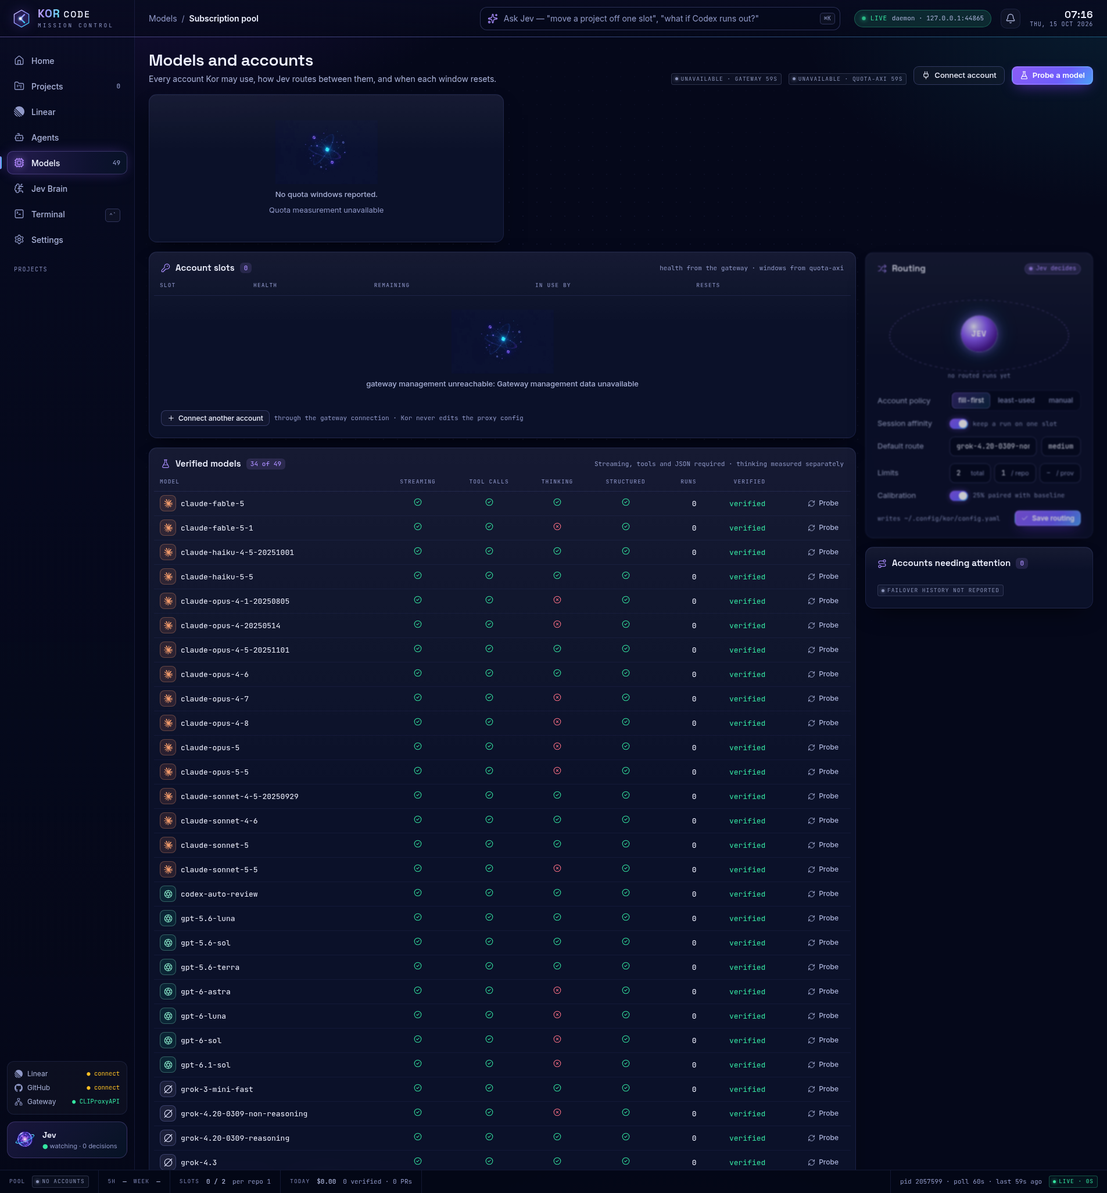
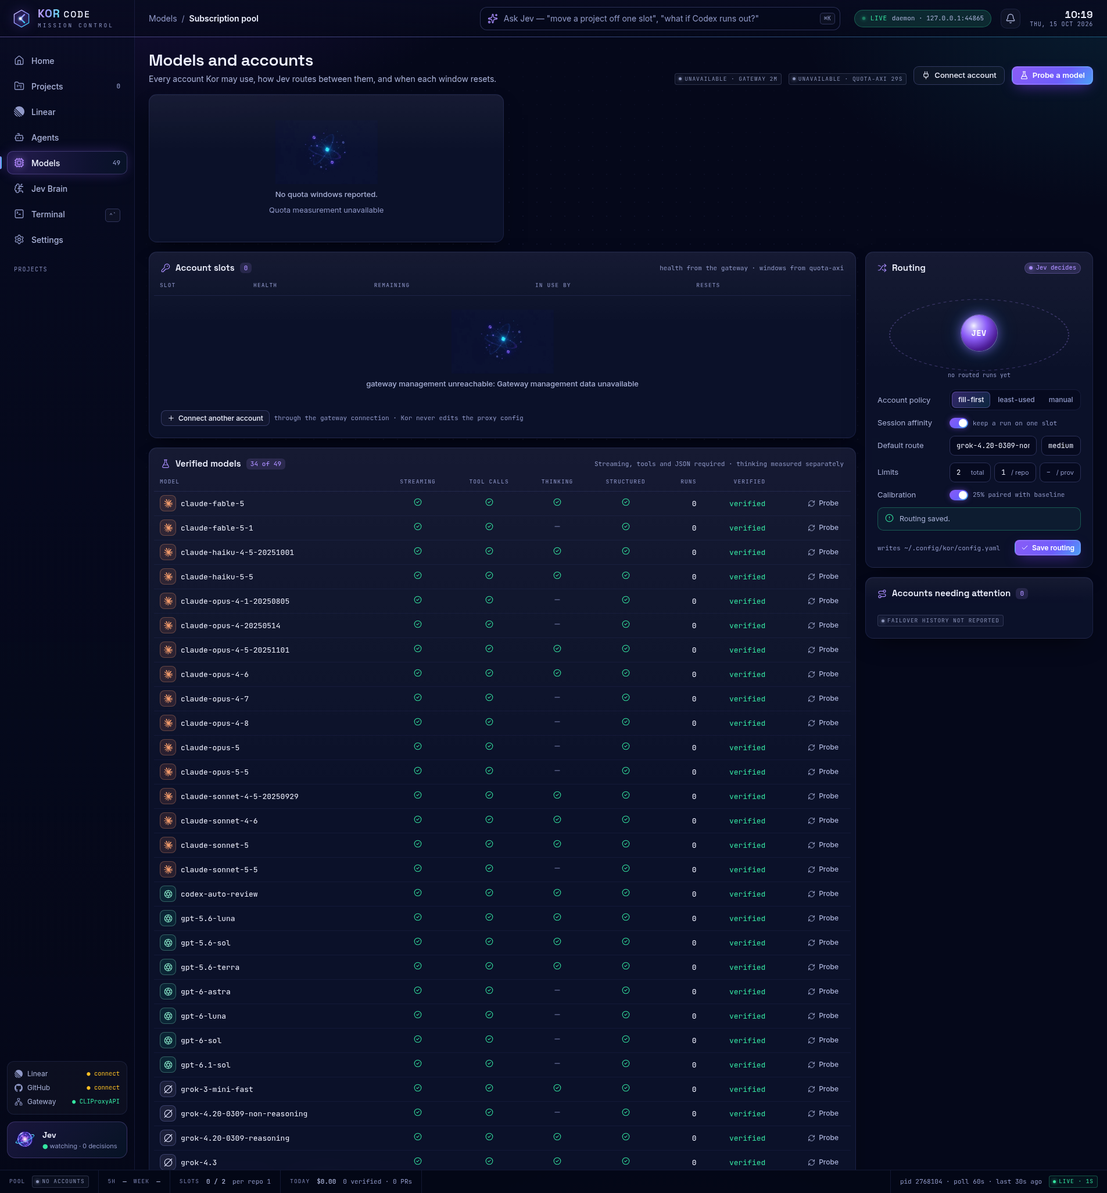
fix(models): retain offline candidates and unknown thinking evidence

Changed region(s): [[0.7743, 0.2494, 0.9911, 0.53], [0.8052, 0.2182, 0.8362, 0.2494]]

diff --git a/packages/cli/src/models.ts b/packages/cli/src/models.ts
@@ -6,7 +6,7 @@ import { join } from "node:path";
 import { fileURLToPath } from "node:url";
 import { z } from "zod";
 import { loadGatewayEnvironment } from "@kor-code/config";
-import { GatewayAdapter, MODEL_CAPABILITIES, availableVerifiedModels, isTextModel, modelFamily, modelProvider, readModelRegistry, writeModelRegistry, type ModelProbeResult } from "@kor-code/gateway-adapter";
+import { GatewayAdapter, MODEL_CAPABILITIES, loadAvailableVerifiedModels, isTextModel, modelFamily, modelProvider, readModelRegistry, writeModelRegistry, type ModelProbeResult } from "@kor-code/gateway-adapter";
 
 const root = fileURLToPath(new URL("../../..", import.meta.url));
 const sandbox = join(root, "scripts", "sandbox.sh");
@@ -43,12 +43,31 @@ const resultSchema = z.object({ type: z.literal("result"), result: z.string(), i
       const child = spawn("bash", args, { stdio: ["ignore", "pipe", "pipe"], env, cwd, detached: true });
       let stdout = "";
       let stderr = "";
-      const timeout = setTimeout(() => { if (child.pid) process.kill(-child.pid, "SIGTERM"); reject(new Error(`probe timed out after ${timeoutMs}ms`)); }, timeoutMs);
+      const killGroup = (signal: NodeJS.Signals) => {
+        if (!child.pid) return;
+        try { process.kill(-child.pid, signal); }
+        catch (error) { if (!(error instanceof Error && "code" in error && error.code === "ESRCH")) throw error; }
+      };
+      const onInterrupt = () => forwardSignal("SIGINT");
+      const onTerminate = () => forwardSignal("SIGTERM");
+      const cleanup = () => {
+        clearTimeout(timeout);
+        process.removeListener("SIGINT", onInterrupt);
+        process.removeListener("SIGTERM", onTerminate);
+      };
+      const forwardSignal = (signal: NodeJS.Signals) => {
+        killGroup(signal);
+        cleanup();
+        process.kill(process.pid, signal);
+      };
+      const timeout = setTimeout(() => { killGroup("SIGTERM"); reject(new Error(`probe timed out after ${timeoutMs}ms`)); }, timeoutMs);
+      process.once("SIGINT", onInterrupt);
+      process.once("SIGTERM", onTerminate);
       child.stdout.setEncoding("utf8"); child.stderr.setEncoding("utf8");
       child.stdout.on("data", chunk => { stdout += chunk; });
       child.stderr.on("data", chunk => { stderr += chunk; });
-      child.on("error", error => { clearTimeout(timeout); reject(error); });
-      child.on("close", code => { clearTimeout(timeout); if (code === 0) resolve({ stdout, stderr }); else reject(new Error(`probe exited ${code}: ${resultLine(stdout) ?? stderr.slice(0, 500)}`)); });
+      child.on("error", error => { cleanup(); reject(error); });
+      child.on("close", code => { cleanup(); if (code === 0) resolve({ stdout, stderr }); else reject(new Error(`probe exited ${code}: ${resultLine(stdout) ?? stderr.slice(0, 500)}`)); });
     });
   }
 
@@ -73,7 +92,8 @@ export async function probeModel(model: string, options: { gateway?: { baseUrl: 
       const capabilities = {
         streaming: hasResult && /"type"\s*:\s*"stream_event"/.test(stream),
         tool_calls: wroteMarker && /"name"\s*:\s*"Write"/.test(stream) && /"name"\s*:\s*"Bash"/.test(stream),
-        thinking: /content_block_start.*thinking|"type"\s*:\s*"thinking"/.test(stream),
+        // The neutral prompt does not test a lack of thinking; only positive evidence counts.
+        ...(/content_block_start.*thinking|"type"\s*:\s*"thinking"/.test(stream) ? { thinking: true } : {}),
         structured_output: readyResult(decodedResult),
       };
       const verified = hasResult && capabilities.streaming && capabilities.tool_calls && capabilities.structured_output;
@@ -93,12 +113,12 @@ export async function runModels(args: readonly string[]): Promise<number> {
   const requested = value("--model");
 
   function candidates(models: readonly { id: string }[]): string[] {
-    return models.map(item => item.id).filter(id => isTextModel(id) && (!family || modelFamily(id) === family.toLowerCase()) && (!requested || id === requested));
+    return models.map(item => item.id).filter(id => isTextModel(id) && (!family || (modelFamily(id) === family.toLowerCase() || (id.split("/").at(-1) ?? id).toLowerCase().startsWith(family.toLowerCase()))) && (!requested || id === requested));
   }
 
   if (command === "list") {
     const registry = await readModelRegistry();
-    const verified = availableVerifiedModels(registry, await new GatewayAdapter().listModels());
+    const verified = await loadAvailableVerifiedModels(registry, () => new GatewayAdapter().listModels(), () => console.error("Warning: gateway catalogue unavailable; using saved verified model registry."));
     console.log("MODEL\tFAMILY\tPROVIDER\tCAPABILITIES\tCOST_USD\tDURATION_MS");
     for (const item of verified) console.log(`${item.model}\t${modelFamily(item.model)}\t${item.provider}\t${MODEL_CAPABILITIES.filter(capability => item.capabilities[capability]).join(",")}\t${item.costUsd ?? "-"}\t${item.durationMs ?? "-"}`);
     return 0;

diff --git a/packages/cli/src/cli.ts b/packages/cli/src/cli.ts
@@ -14,7 +14,7 @@ import { ensureRuntimeDirectories, loadGatewayEnvironment, loadKorConfig, reposi
 import { HttpLinearClient, LinearStore, attachLinearImage } from "@kor-code/linear";
 import { GitHubShipping, KorDaemon, MissionServices, processMatches, readExecutionStatus, readStatus, type DaemonOptions } from "@kor-code/daemon";
 import { ConcurrencyLimiter, GitWorktreeManager, RepositoryRegistry, SessionLauncher, createController, type Controller } from "@kor-code/controller";
-import { availableVerifiedModels, modelProvider, readModelRegistry, writeModelRegistry } from "@kor-code/gateway-adapter";
+import { loadAvailableVerifiedModels, modelProvider, readModelRegistry, writeModelRegistry } from "@kor-code/gateway-adapter";
 import { PersistentDecisionAuditLog } from "@kor-code/jev";
 import { CalibrationStore, buildReport, formatReport } from "@kor-code/calibration";
 import type { KorCliError } from "@kor-code/core";
@@ -204,7 +204,7 @@ async function serve(args: readonly string[]): Promise<number> {
   const calibration = calibrationEnabled ? new CalibrationStore(paths.databaseFile) : undefined;
   if (jevEnabled) {
     const gatewayAdapter = await mission.gateway();
-    const models = await gatewayAdapter.catalogue({ capabilities: ["streaming", "tool_calls"] });
+    const models = (await loadAvailableVerifiedModels(await readModelRegistry(paths.modelsFile), () => gatewayAdapter.listModels())).filter(model => model.capabilities.streaming && model.capabilities.tool_calls);
     if (models.length === 0) throw new Error("--jev requires at least one verified gateway model");
   }
   const store = new LinearStore(paths.databaseFile);
@@ -213,8 +213,7 @@ async function serve(args: readonly string[]): Promise<number> {
     const repositories = new RepositoryRegistry(Object.entries(config.repos).map(([key, repository]) => ({ key, path: repository.path, defaultBranch: repository.defaultBranch, allowedTools: repository.toolAllowlist, checks: repository.checks, ...(repository.tools ? { tools: repository.tools } : {}) })));
     const routing = createServeRouting({ audit, defaultRoute: config.defaultRoute, client: { evaluate: (state, questions) => mission.jev().evaluate(state, questions) }, models: async () => {
       const registry = await readModelRegistry(paths.modelsFile);
-      const catalogue = await (await mission.gateway()).listModels();
-      return availableVerifiedModels(registry, catalogue).map(result => ({ provider: modelProvider(result.model, result.provider), model: result.model, capabilities: Object.entries(result.capabilities).map(([name, supported]) => ({ name, supported: supported === true })), ...(result.costUsd !== undefined ? { costUsd: result.costUsd } : {}), ...(result.durationMs !== undefined ? { durationMs: result.durationMs } : {}) }));
+      return (await loadAvailableVerifiedModels(registry, async () => (await mission.gateway()).listModels())).map(result => ({ provider: modelProvider(result.model, result.provider), model: result.model, capabilities: Object.entries(result.capabilities).map(([name, supported]) => ({ name, supported: supported === true })), ...(result.costUsd !== undefined ? { costUsd: result.costUsd } : {}), ...(result.durationMs !== undefined ? { durationMs: result.durationMs } : {}) }));
     } });
     const controller = createController({
       repositories,
@@ -232,7 +231,7 @@ async function serve(args: readonly string[]): Promise<number> {
   };
   const initial = runtime({ ...loaded.config, calibration: calibrationConfig });
   const gateway = await mission.gateway();
-  const verifiedModels = async () => availableVerifiedModels(await readModelRegistry(paths.modelsFile), await (await mission.gateway()).listModels()).map(model => model.model);
+  const verifiedModels = async () => (await loadAvailableVerifiedModels(await readModelRegistry(paths.modelsFile), async () => (await mission.gateway()).listModels())).map(model => model.model);
   const webRoot = valueAfter(args, "--ui-dir") ?? fileURLToPath(new URL("../../web/dist", import.meta.url));
   const daemon = new KorDaemon({ paths, config: loaded.config, store, linear: mission.linear(), ...initial, shipping: new GitHubShipping((file, args, cwd) => mission.shippingCommand(file, args, cwd)), port, gateway, verifiedModels, webRoot, missionServices: mission, reconfigure: runtime });
   const handle = await daemon.start();

diff --git a/packages/cli/src/plan.ts b/packages/cli/src/plan.ts
@@ -3,7 +3,7 @@ import { hasScreenshot, resolveLinearApiKey } from "@kor-code/linear";
 import { HttpLinearClient } from "@kor-code/linear";
 import { LinearStore } from "@kor-code/linear";
 import { JevClient, JevDecisionCore, PersistentDecisionAuditLog, planPreflight, type PreflightPlan } from "@kor-code/jev";
-import { GatewayAdapter, availableVerifiedModels, modelProvider, readModelRegistry } from "@kor-code/gateway-adapter";
+import { GatewayAdapter, loadAvailableVerifiedModels, modelProvider, readModelRegistry } from "@kor-code/gateway-adapter";
 import { loadKorConfig, runtimePaths } from "@kor-code/config";
 
 function commentId(issueId: string): string {
@@ -28,7 +28,7 @@ export async function runPlan(issueId: string, environment: NodeJS.ProcessEnv = 
   const client = new HttpLinearClient({ apiKey, writes: {} });
   const issue = await client.getIssue(issueId);
   const registry = await readModelRegistry(paths.modelsFile);
-  const verifiedModels = availableVerifiedModels(registry, await new GatewayAdapter().listModels()).map(result => ({ provider: modelProvider(result.model, result.provider), model: result.model, capabilities: Object.entries(result.capabilities).map(([name, supported]) => ({ name, supported })), ...(result.costUsd !== undefined ? { costUsd: result.costUsd } : {}), ...(result.durationMs !== undefined ? { durationMs: result.durationMs } : {}) }));
+  const verifiedModels = (await loadAvailableVerifiedModels(registry, () => new GatewayAdapter().listModels())).map(result => ({ provider: modelProvider(result.model, result.provider), model: result.model, capabilities: Object.entries(result.capabilities).map(([name, supported]) => ({ name, supported })), ...(result.costUsd !== undefined ? { costUsd: result.costUsd } : {}), ...(result.durationMs !== undefined ? { durationMs: result.durationMs } : {}) }));
   const store = new LinearStore(paths.databaseFile);
   const audit = new PersistentDecisionAuditLog({ read: decisionId => store.readDecisionAudit(decisionId), write: (decisionId, recordedAt, payload) => store.writeDecisionAudit(decisionId, recordedAt, payload), update: (decisionId, recordedAt, payload) => store.updateDecisionAudit(decisionId, recordedAt, payload) });
   const jevKey = environment.TYPESAFE_API_KEY ?? environment.TYPESAFE_KEY ?? environment.JEV_API_KEY;

diff --git a/packages/gateway-adapter/src/registry.ts b/packages/gateway-adapter/src/registry.ts
@@ -29,7 +29,13 @@ export async function readModelRegistry(path = modelRegistryPath()): Promise<Mod
   try {
     const parsed: unknown = JSON.parse(await readFile(path, "utf8"));
     if (!parsed || typeof parsed !== "object" || !Array.isArray((parsed as { models?: unknown }).models)) return { version: 1, models: [] };
-    return { version: 1, models: (parsed as { models: ModelProbeResult[] }).models.filter(item => typeof item?.model === "string" && typeof item.verified === "boolean") };
+    return { version: 1, models: (parsed as { models: ModelProbeResult[] }).models.filter(item => typeof item?.model === "string" && typeof item.verified === "boolean").map(item => {
+      // Older probes marked missing thinking output false; that evidence means unknown.
+      if (item.capabilities?.thinking !== false) return item;
+      const capabilities = { ...item.capabilities };
+      delete capabilities.thinking;
+      return { ...item, capabilities };
+    }) };
   } catch (error) {
     if (error instanceof Error && "code" in error && error.code === "ENOENT") return { version: 1, models: [] };
     throw new Error(`Cannot read model registry at ${path}`);
@@ -51,4 +57,16 @@ export function availableVerifiedModels(registry: ModelRegistry, catalogue: Mode
   const models = new Map((catalogue.data ?? []).map(model => [model.id, model]));
   return registry.models.filter(result => result.verified && models.has(result.model))
     .map(result => ({ ...result, provider: modelProvider(result.model, models.get(result.model)?.owned_by ?? result.provider) }));
+}
+
+/** A catalogue outage must not discard saved verification evidence. */
+export async function loadAvailableVerifiedModels(registry: ModelRegistry, loadCatalogue: () => Promise<ModelCatalogue>, onUnavailable?: () => void): Promise<ModelProbeResult[]> {
+  let catalogue: ModelCatalogue;
+  try { catalogue = await loadCatalogue(); }
+  catch {
+    onUnavailable?.();
+    return registry.models.filter(result => result.verified)
+      .map(result => ({ ...result, provider: modelProvider(result.model, result.provider) }));
+  }
+  return availableVerifiedModels(registry, catalogue);
 }

diff --git a/docs/model-probe-results-2026-10-15.md b/docs/model-probe-results-2026-10-15.md
@@ -18,13 +18,13 @@ Kor discovered all 121 models in the initial CLIProxyAPI `/v1/models` catalogue.
 | swe | cognition | 5 | 0 | 5 |
 | **Total** | | **108** | **34** | **74** |
 
-The gateway later returned 49 model ids, including 36 text models. The 72 removed ids were the 58 `devin/` routes, ten direct Kimi models, three unavailable older Claude models and `gpt-5.5`. Firstmate traced the Devin disappearance to an upstream permission block followed by an account cooldown. Kor did not change gateway configuration or accounts. Initial failures remain in the report. A catalogue watch from 06:25 to 06:36 UTC still found 49 ids and no Devin or Kimi routes. The final recheck at 09:01:59 UTC found 59 ids: the ten direct Kimi models had returned. Each was re-probed once and again returned HTTP 403 for exhausted monthly quota. All 58 `devin/` ids, the three unavailable older Claude models and `gpt-5.5` were still absent. Those 62 models are not currently served; their recorded errors are earlier observations, not a claim of current access.
+The gateway later returned 49 model ids, including 36 text models. The 72 removed ids were the 58 `devin/` routes, ten direct Kimi models, three unavailable older Claude models and `gpt-5.5`. The gateway operator traced the Devin disappearance to an upstream permission block followed by an account cooldown. Kor did not change gateway configuration or accounts. Initial failures remain in the report. A catalogue watch from 06:25 to 06:36 UTC still found 49 ids and no Devin or Kimi routes. A recheck at 09:01:59 UTC found 59 ids: the ten direct Kimi models had returned. Each was re-probed once and again returned HTTP 403 for exhausted monthly quota. All 58 `devin/` ids, the three unavailable older Claude models and `gpt-5.5` were still absent. Those 62 models were absent at that check. The review recheck at 2026-10-15T09:16:05Z returned 49 ids again: the ten Kimi models were also absent. The JSON records this latest availability; exact errors remain earlier observations, not a claim of current access.
 
 ## What changed in Kor
 
-Grok's non-reasoning model passed streaming, file creation, a Bash read and JSON output, but the original harness rejected it for lacking a visible thinking block. Thinking is now measured separately. The neutral prompt also lets `claude-fable-5` pass; the old request for extended reasoning triggered its `reasoning_extraction` refusal.
+Grok's non-reasoning model passed streaming, file creation, a Bash read and JSON output, but the original harness rejected it for lacking a visible thinking block. Only observed thinking blocks establish thinking support; missing blocks mean unknown. Older saved false observations are read as unknown, so neither Mission Control nor Jev receives a false negative for reasoning models. The neutral prompt also lets `claude-fable-5` pass; the old request for extended reasoning triggered its `reasoning_extraction` refusal.
 
-Family selection now includes route prefixes and underscore aliases, such as `devin/gpt-5-6-sol` and `devin/model_gpt_5_2`. Provider metadata comes from `owned_by`. Saving a non-Anthropic default model in Mission Control saves the matching provider. The CLI now reports the provider and each probe failure, and preserves completed results during a long sweep. The verified, currently served models reach Jev as candidates for each task. This change adds no default model, provider preference or fallback ordering. The real preflight request builder produced all 34 candidates, including GPT, Codex and Grok.
+Family selection now includes route prefixes and underscore aliases, such as `devin/gpt-5-6-sol` and `devin/model_gpt_5_2`. Provider metadata comes from `owned_by`. Saving a non-Anthropic default model in Mission Control saves the matching provider. The CLI now reports the provider and each probe failure, and preserves completed results during a long sweep. When the catalogue is reachable, verified, currently served models reach Jev as candidates for each task. During a catalogue outage, the saved verified registry remains available to planning, routing and the CLI list, which warns on stderr. This change adds no default model, provider preference or fallback ordering. The real preflight request builder produced all 34 candidates, including GPT, Codex and Grok.
 
 ## Validation
 
@@ -34,7 +34,9 @@ The initial sweep used the original harness. The changed harness re-probed the r
 
 `pnpm build`, `pnpm typecheck` and `git diff --check` passed. A temporary local relay omitted one verified Grok model from the live catalogue without changing the real gateway. The CLI omitted it immediately, and Mission Control disabled it after its automatic refresh. Removing the omission restored the CLI offer and the selectable UI option without another probe. Saved verification remained intact. `kor models list` returned all 34 verified records. In the real `kor ui` app, the model picker offered all 34, including GPT, Codex and Grok. Selecting `grok-4.20-0309-non-reasoning` and clicking **Save routing** persisted both that exact id and `provider: xai` in the disposable configuration.
 
-The screenshots use the original 32-pass registry and the final 34-pass registry in the built app. The final view shows the non-reasoning Grok model verified despite its absent thinking capability. Management and quota panels are unavailable because this proof supplied only the gateway inference credentials.
+After rebasing onto current main, single-prompt live re-probes of `claude-opus-5-5` and `grok-4.20-0309-non-reasoning` passed streaming, tools and JSON; thinking reported `absent`, not `fail`. Historical positive thinking evidence remains intact. With the gateway endpoint deliberately unreachable, `kor models list` exited zero with all 34 saved models and a stderr warning. The actual `runPlan` and `createServeRouting` paths retained 34 candidates and the existing labelled fallback. This offline proof supplied a disposable Linear transport response, simulated its comment, and made no Linear or Jev network requests. A successful empty catalogue still yielded zero candidates. The real `kor serve --jev` also started with the unreachable endpoint and returned HTTP 200 from `/api/status`. Prefix dry-runs for `gpt-6` and `claude-opus` matched models. Build and final typecheck passed; no tests were added.
+
+The screenshots use the original 32-pass registry and the revised 34-pass registry in the built app. The revised view renders unobserved thinking with a neutral dash, including Claude Opus 5.5. The final view shows the non-reasoning Grok model verified despite its absent thinking capability. Management and quota panels are unavailable because this proof supplied only the gateway inference credentials.
 
 Before:
 

diff --git a/docs/model-compatibility.md b/docs/model-compatibility.md
@@ -8,12 +8,12 @@ Run a probe against the live `/v1/models` catalogue:
 kor models probe --dry-run
 kor models probe
 kor models probe --family gpt
-kor models probe --model devin/gemini-3-8-flash
+kor models probe --model gpt-6.1-sol
 ```
 
 Kor selects text models from every provider. Family matching ignores route prefixes and accepts dotted or hyphenated versions. Requests retain the gateway's exact model id. Known image, video and speech generation models are excluded.
 
-Each selected model runs one built-in prompt in a fresh sandbox HOME, config and working directory. The prompt requests a Write tool call, an independent Bash read and a final JSON object. The table reports `pass`, `fail`, or `absent` for streaming, tool calls, thinking and structured output. Routing requires streaming, tools and JSON. Thinking remains an observed capability that a route can request explicitly. A model without visible thinking can qualify for coding.
+Each selected model runs one built-in prompt in a fresh sandbox HOME, config and working directory. The prompt requests a Write tool call, an independent Bash read and a final JSON object. The table reports `pass`, `fail`, or `absent` for streaming, tool calls, thinking and structured output. Routing requires streaming, tools and JSON. Thinking is recorded as `pass` only when a thinking block is observed. Without one it is `absent` (unknown), never `fail`: this neutral prompt cannot disprove thinking support. Older saved `thinking: false` observations are also read as unknown. A route can request positively observed thinking explicitly. A model without visible thinking can qualify for coding.
 
 Failures print to stderr and remain in the registry's `error` field. Kor saves each completed result, so interrupting a long sweep preserves completed probes. Quota, account access and upstream tool restrictions can prevent an advertised model from passing.
 
@@ -25,7 +25,7 @@ kor models list
 
 `GatewayAdapter.catalogue()` reads the same registry and filters the live catalogue to verified models. Explicit `modelCapabilities` supplied by an adapter caller remain routable for fixtures and one-off proofs. An empty registry leaves live models unroutable until a probe records them.
 
-`kor models list`, planning and routing intersect saved probe results with a fresh live catalogue. Missing models keep their probe history and become eligible again when the gateway advertises them. Mission Control refreshes models every minute, marks verified models and offers them in the default-model picker. Saving a selection also saves its catalogue provider. The CLI records `owned_by` as the provider rather than treating a route prefix such as `devin/` as the model vendor.
+`kor models list`, planning and routing intersect saved probe results with a fresh live catalogue. If the catalogue cannot be fetched, they retain the saved verified registry as candidates; `kor models list` warns on stderr. A successful empty catalogue still offers no models. Missing models keep their probe history and become eligible again when the gateway advertises them. Mission Control refreshes models every minute, marks verified models and offers them in the default-model picker. Saving a selection also saves its catalogue provider. The CLI records `owned_by` as the provider rather than treating a route prefix such as `devin/` as the model vendor.
 
 To keep the registry separate, run:
 

diff --git a/README.md b/README.md
@@ -253,15 +253,16 @@ excluded. `--family gpt` also selects prefixed GPT models; `--model` uses the
 gateway's exact id.
 
 Kor offers a model after its sandbox probe passes streaming, tool calls and a
-final JSON response. Thinking is measured separately, so models without visible
-reasoning can qualify. Run `kor models list` to see verified models and their
+final JSON response. Observed thinking is recorded as supported; no visible
+thinking means unknown, so models without visible reasoning can qualify. Run `kor models list` to see verified models and their
 providers. Verified models become candidates for Jev, which chooses the model for
 each task. Verification adds no model preference or fallback order.
 A listed model can still fail because its upstream account has no quota or lacks
 access. The live catalogue refreshes every minute in Mission Control and on each CLI
 list or routing decision. Models removed during an upstream cooldown stop being
 offered. When a verified model reappears, Kor offers it again without losing its
-probe result. An empty registry offers no models until you probe them. See
+probe result. During a catalogue outage, saved verified models remain candidates;
+`kor models list` warns that it is using the saved registry. An empty registry offers no models until you probe them. See
 [model compatibility](docs/model-compatibility.md) for isolated probe commands and
 the [live gateway results](docs/model-probe-results-2026-10-15.md).
 
